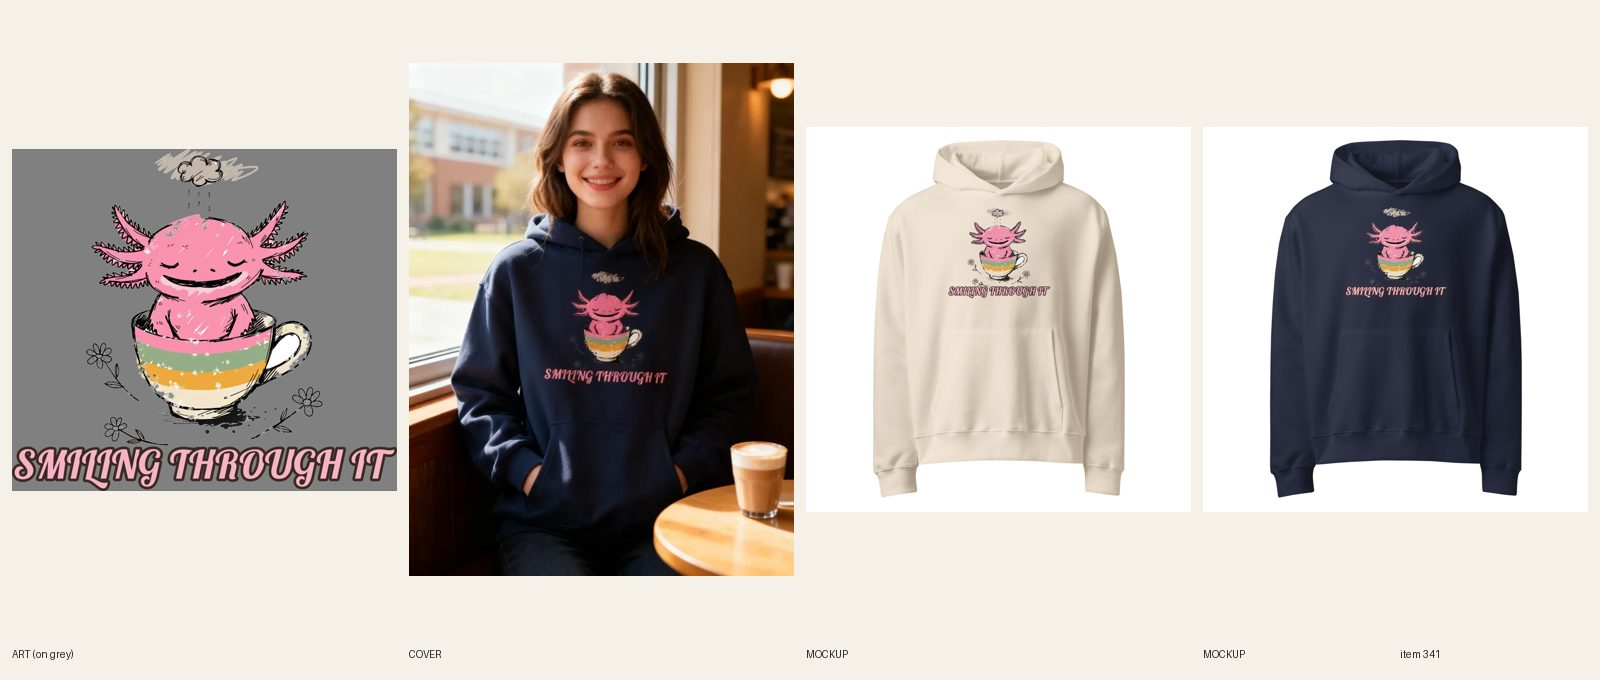
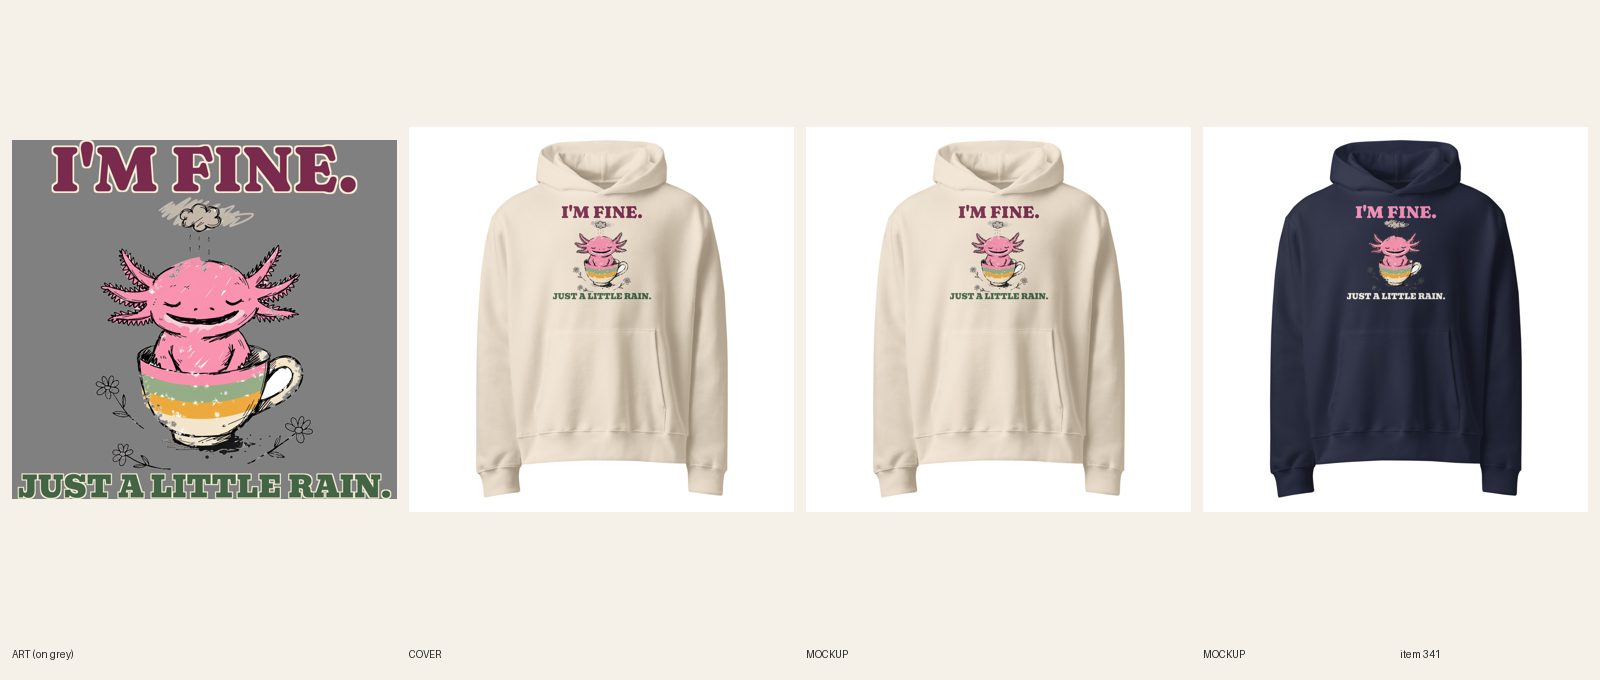
[C] review 341 (redo)
Claude-Session: https://claude.ai/code/session_01CCHcDj8LcJJ8qUPtKE3cvn

Changed region(s): [[0.0, 0.0926, 0.5, 0.8647], [0.8438, 0.2779, 0.9062, 0.4632], [0.5938, 0.2779, 0.6562, 0.4632]]

diff --git a/designs/c341/make.py b/designs/c341/make.py
@@ -1,0 +1,36 @@
+from PIL import Image, ImageDraw, ImageFont, ImageFilter
+FD='designs/fonts/'
+RED=(196,52,44,255); PLUM=(122,42,76,255); HPINK=(246,140,176,255); SAGE=(68,100,70,255); CREAM=(246,236,214,255); BROWN=(58,36,24,255)
+def line(text,font,wfrac,W,fill,key,kw=31,track=0,var=None):
+    def mk(sz):
+        f=ImageFont.truetype(FD+font,sz)
+        if var: f.set_variation_by_axes(var)
+        return f
+    f=mk(800); adv=[f.getlength(c) for c in text]
+    tot=sum(adv)+track*(len(text)-1); size=int(800*W*wfrac/tot)
+    f=mk(size); adv=[f.getlength(c) for c in text]; tr=int(track*size/800)
+    asc,desc=f.getmetrics(); tot=int(sum(adv)+tr*(len(text)-1))
+    pad=80; im=Image.new('RGBA',(tot+2*pad,asc+desc+2*pad),(0,0,0,0))
+    def draw(layer,col):
+        d=ImageDraw.Draw(layer); x=pad
+        for c,a in zip(text,adv): d.text((x,pad),c,font=f,fill=col); x+=a+tr
+    k=Image.new('L',im.size,0); d=ImageDraw.Draw(k); x=pad
+    for c,a in zip(text,adv): d.text((x,pad),c,font=f,fill=255); x+=a+tr
+    k=k.filter(ImageFilter.MaxFilter(kw)); im.paste(Image.new('RGBA',im.size,key),(0,0),k)
+    draw(im,fill)
+    return im.crop(im.getbbox())
+def build(tag,c1,k1,c2,k2,bgc):
+    im=Image.open('docs/print-files/341-smiling-through-it.png').convert('RGBA'); W=im.width
+    art=im.crop((0,0,W,2705)); art=art.crop(art.getbbox()); sc=0.92; art=art.resize((int(art.width*sc),int(art.height*sc)),Image.LANCZOS)
+    h1=line("I'M FINE.",'Fraunces[SOFT,WONK,opsz,wght].ttf',0.80,W,c1,k1,kw=31,var=[9,900,100,1])
+    h2=line("JUST A LITTLE RAIN.",'Bevan-Regular.ttf',0.97,W,c2,k2,kw=21,track=10)
+    print(tag,'h1',h1.size,'h2',h2.size,'ratio h2/h1',h2.height/h1.height)
+    g=30; H=h1.height+g+art.height+g+h2.height
+    out=Image.new('RGBA',(W,H),(0,0,0,0))
+    out.alpha_composite(h1,((W-h1.width)//2,0)); y=h1.height+g
+    out.alpha_composite(art,((W-art.width)//2,y)); y+=art.height+g
+    out.alpha_composite(h2,((W-h2.width)//2,y))
+    out.save(f'docs/print-files/341-v2-fine-{tag}.png'); print(out.size,H/W)
+    bg=Image.new('RGBA',out.size,bgc); bg.alpha_composite(out); bg.convert('RGB').resize((600,int(600*H/W))).save(f'designs/c341/prev_{tag}.png')
+build('dust',PLUM,CREAM,SAGE,CREAM,(200,184,170,255))
+build('navy',HPINK,NAVY:=(30,42,84,255),CREAM,NAVY,(38,50,88,255))

diff --git a/docs/pipeline/341-axolotl-oversized-hoodie-smiling-through-it.md b/docs/pipeline/341-axolotl-oversized-hoodie-smiling-through-it.md
@@ -1,4 +1,4 @@
-status: BUILDING [C] 2026-10-20 05:41
+status: REVIEW
 lane: C
 type: new
 id: 341
@@ -30,3 +30,4 @@ kd: 30
 - 2026-10-17 20:36 UTC builder [C]: REVIEW. Sync 12/12. Sheet docs/review/341.jpg. design-crops and variant-photo audit cover published products only: rerun when ACTIVE. Local cohesion audit not run (no spec file); copy checked by hand against the art. 
 - 2026-10-17 21:19 UTC director: LIVE. sheet seen: axolotl in a teacup with its rain cloud, SMILING THROUGH IT reads on Dust and Navy; cover woman at a cafe window. ACTIVE + Online Store, Headless, Google & YouTube; audit --handle PASS.
 - 2026-10-18 17:22 UTC director: QUALITY RESET grade C (new line + type), REDO. The product stays ACTIVE (same handle, URL, title keyword). 1. Line (R3.12, quality-reset 'Lines'): "SMILING THROUGH IT": Stock phrase describing the picture; single script line under art. Write 5 candidates, keep the one a stranger laughs at in 3 seconds without backstory; kill lines that only describe the picture; if none of the 5 is funny, PARK it. 2. Quality reset type bar (docs/backlog/quality-reset.md, 'The new bar'): headline at least 90% of the art width, heavy, colors pulled from the art; second line at least 45% of the headline's height, never a thin script on a dark or mid garment; use the lettering as a shape (arch, stacked lockup, words breaking into the art), not a plain bar above and a script line below; no font used on more than 1 in 6 of the last 30 designs. 3. Keep the art if it carries the new line, else one new illustration (R4/R5). New print means a new cover per R6.10, copy line one rewritten for the new joke (R8.3), and a fresh review sheet (R7.7). While quality-reset.md says PAUSED, only lane A builds, and only the samples step 2 names.
+- 2026-10-20 05:52 UTC builder [C]: REDO new line + type (grade C). 5 candidates: "I'M FINE. / JUST A LITTLE RAIN." (kept: the cloud over a grinning axolotl is the 'I'm fine' lie, one read), "SMILING THROUGH IT" (old, describes the picture), "DEAD INSIDE. SMILING OUTSIDE.", "THE CLOUD FOLLOWS ME.", "RAINING ON MY PARADE (IN A TEACUP)". Same axolotl art (scaled 92%). I'M FINE. Fraunces Black (soft, opsz 9) 80% of the print width; JUST A LITTLE RAIN. Bevan 97% width (48% of the headline's height). Light-file (R5.3.8): Dust file 1090192013 has the headline plum with a cream keyline and the second line sage; Navy file 1090192095 has it hot pink and cream (docs/print-files/341-v2-fine-dust.png / -navy.png); logged: light file Dust on file 1090192013, headline fill plum. Print 3516 x 3280, FW 1500 TOP 30 (about 1,400 px, inside the 1650 oversized area), 12/12 relinked per color. 2 fronts replaced in place, read at phone size. Copy, FAQ and SEO rewritten for the new line. Plain product shot. fal $0.

diff --git a/docs/intake-log.md b/docs/intake-log.md
@@ -2,6 +2,7 @@ RUNNING lane B since 2026-10-20 05:30 UTC
 2026-10-20 05:46 UTC — [B] Builder run: redid #280 Women's Thanksgiving pumpkin hoodie round 2 (R3.7.8: punch THE WARM-UP. widened to headline width, 3600/3600 px, Navy + Sand, 12/12 synced). REVIEW. fal $0.
 RUNNING lane C since 2026-10-20 05:30 UTC
 2026-10-20 05:45 UTC — [H] Helper run: Telegram inbox empty (getUpdates returned 0 updates, nothing to consume). Audit 608 products: 0 errors, 30 warnings left alone (polish); committed docs/cohesion-audit.md and .json (npm ci first, esbuild was missing). Category check: 0 products without a Shopify category. Site check: #649, #356, #326 all 200 (first try used filename slugs, which are not the handles; real handles are in each pipeline file). Stuck-work check: nothing BUILDING over 3h (#332 claimed 05:44 by lane A, #341 05:41 by lane C). Announcement bar already on the holiday line. Daily summary not due (before 12:00 UTC). Lock released.
+2026-10-20 05:52 UTC — [C] Builder run: redid #341 Women's Axolotl oversized hoodie (new line + type: I'M FINE. / JUST A LITTLE RAIN., Fraunces Black + Bevan, same teacup art, Dust file 1090192013 + Navy file 1090192095, FW 1500 TOP 30, 12/12 relinked, 2 fronts replaced in place, copy + SEO updated, plain product shot). REVIEW. fal $0.
 2026-10-20 05:41 UTC — [C] Builder run: redid #506 Men's Golf retired zip hoodie (new line + type: CLOCKED OUT. / TEED UP., Bowlby One + Alfa Slab, same backyard art, Ash file 1090187094 + Navy file 1090187130, BW 1650 BT 225, 12/12 relinked, 2 back mockups replaced in place, copy + SEO updated, plain product shot). REVIEW. fal $0.
 RUNNING lane E since 2026-10-20 05:16 UTC
 2026-10-20 05:32 UTC — [E] Builder run: redid #388 Women's Christmas crewneck again (every calendar day box now filled: cream square, red X, so it reads booked; line kept SORRY, I'M BOOKED / TILL JANUARY.; Navy + Sand files, 12/12 synced). REVIEW. fal $0.
